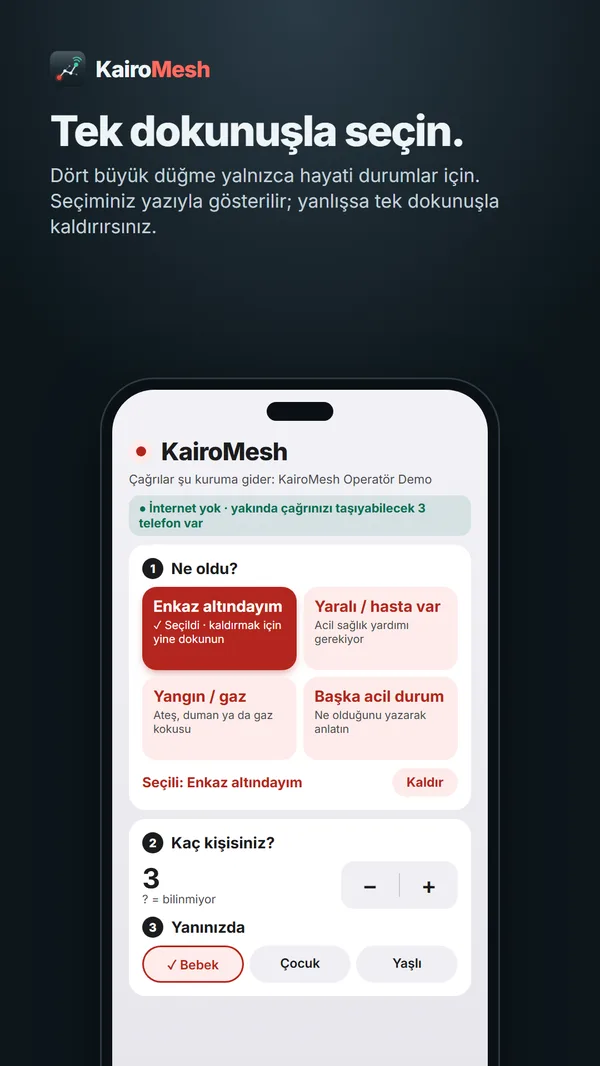
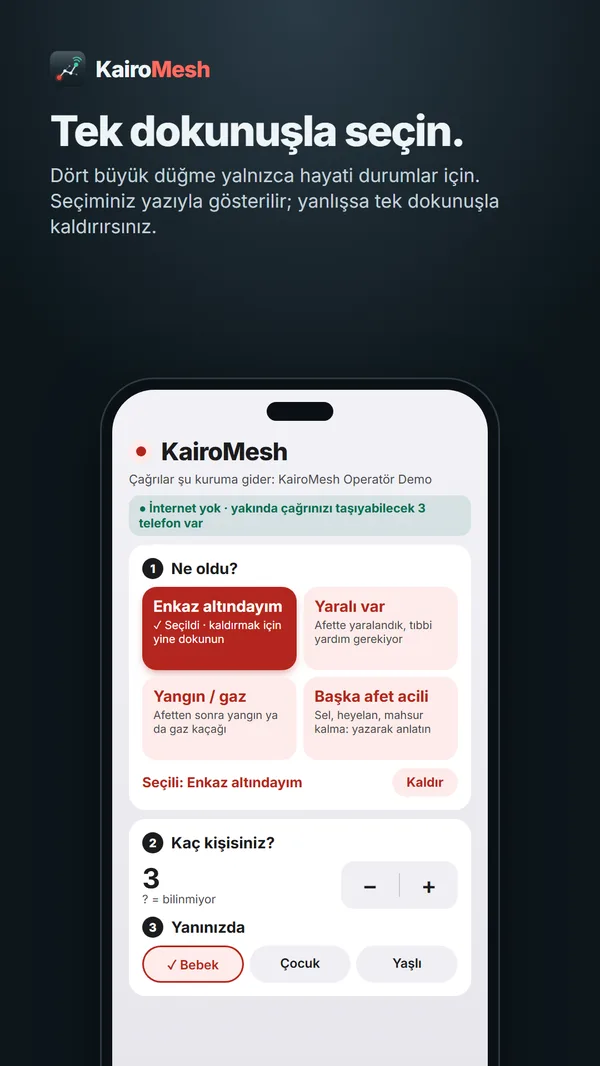
0.6.2: natural disasters only
KairoMesh is for natural disasters that take the network down (earthquake, flood, landslide),
not for everyday emergencies, which stay with 112.

- Apps (Android, iOS): the screen is now "Afet yardım çağrısı" and says at the top to call 112
  while the network works. Situation buttons rewritten for disasters: Yaralı var, Yangın / gaz
  after a disaster, Başka afet acili (flood, landslide, trapped). Water/food and shelter are no
  longer call types; a message the model reads as such goes out as another disaster emergency.
  Version 0.6.2 (10).
- Authority server: labels follow the apps.
- Site: hero scope note, authority wording without 112, app previews redrawn, 0.6.2 changelog.
- README: scope line; the live-demo badge now points to the site's simulation page (the old
  root page was removed). docs/05, 07, 08 follow the new scope.

Changed region(s): [[0.51, 0.6501, 0.75, 0.712], [0.54, 0.5572, 0.72, 0.6191], [0.27, 0.6501, 0.45, 0.712]]

diff --git a/site/sayfalar/index.html b/site/sayfalar/index.html
@@ -1,9 +1,10 @@
 <section class="acilis" data-tema="koyu" data-sahne="gorunum">
   <canvas data-ag aria-hidden="true"></canvas>
   <div class="sar acilis-ic">
-    <span class="etiket acil">Afet haberleşmesi · Yerli geliştirme</span>
+    <span class="etiket acil">Doğal afet haberleşmesi · Yerli geliştirme</span>
     <h1>Şebeke çöktüğünde de yardım çağrısı kuruma ulaşır.</h1>
-    <p class="lede">KairoMesh'te cep telefonları internet ve baz istasyonu olmadan, Bluetooth ile birbirinin şifreli mesajını taşır. Enkaz altından yazılan çağrı çevredeki telefonlardan geçer; internete ulaşan ilk telefon onu arka planda kurumun sunucusuna iletir. Kurum 112, AFAD ya da bir belediye olabilir; bugün çalışan referans kurum sunucusudur, gerçek kurum entegrasyonu pilotun konusudur.</p>
+    <p class="lede">KairoMesh'te cep telefonları internet ve baz istasyonu olmadan, Bluetooth ile birbirinin şifreli mesajını taşır. Enkaz altından yazılan çağrı çevredeki telefonlardan geçer; internete ulaşan ilk telefon onu arka planda afet biriminin sunucusuna iletir. Kurum il afet birimi, AFAD ya da bir belediye olabilir; bugün çalışan referans kurum sunucusudur, gerçek kurum entegrasyonu pilotun konusudur.</p>
+    <p class="kapsam"><strong>Yalnız doğal afetler için.</strong> Deprem, sel, heyelan gibi şebekenin gerçekten çöktüğü durumlarda devreye girer. Günlük acil durumlarda, şebeke varken 112'yi arayın.</p>
     <div class="dugmeler">
       <a class="dugme birincil" href="#yolculuk">Bir çağrının yolculuğu</a>
       <a class="dugme hayalet" href="kurumlar.html">Kurumlar için</a>
@@ -55,7 +56,7 @@
           <g class="y-tel"><rect x="418" y="150" width="24" height="40" rx="5"/></g>
           <g class="y-tel internet"><rect x="507" y="118" width="26" height="44" rx="5"/><path d="M510 108 q10 -9 20 0 M514 113 q6 -5 12 0" fill="none"/></g>
           <path class="y-kurum-hat" d="M528 108 L578 66" fill="none"/>
-          <g class="y-kurum"><rect x="560" y="24" width="64" height="42" rx="6"/><text x="592" y="51" text-anchor="middle">112</text></g>
+          <g class="y-kurum"><rect x="560" y="24" width="64" height="42" rx="6"/><text x="592" y="51" text-anchor="middle">Kurum</text></g>
           <g class="y-balon"><rect x="16" y="150" width="210" height="34" rx="10"/><path d="M60 184 l10 12 l6 -12"/><text x="28" y="172">enkazdayız 3 kş bebek var acill</text></g>
           <g class="y-kayit"><rect x="16" y="200" width="104" height="22" rx="11"/><text x="28" y="215">tür: enkaz · 1</text></g>
           <g class="y-kayit"><rect x="16" y="228" width="76" height="22" rx="11"/><text x="28" y="243">kişi: 3</text></g>
@@ -157,7 +158,7 @@
     <div>
       <span class="etiket">Kurumlar için</span>
       <h2>Pilot ortağı arıyoruz.</h2>
-      <p>Afet ve acil durum birimleri, belediyeler, arama-kurtarma kuruluşları ve operatörlerle saha tatbikatı yapmak istiyoruz. Sistem kurumun kendi anahtarı ve sunucusuyla çalışır; veri kurumda kalır.</p>
+      <p>Afet birimleri, belediyeler, arama-kurtarma kuruluşları ve operatörlerle saha tatbikatı yapmak istiyoruz. Sistem kurumun kendi anahtarı ve sunucusuyla çalışır; veri kurumda kalır.</p>
       <div class="dugmeler"><a class="dugme birincil" href="kurumlar.html">Lisans ve pilot</a><a class="dugme hayalet" href="https://github.com/kairodynedynamics/kairo-mesh">Kaynak kod</a></div>
     </div>
     <div class="kart">

diff --git a/ios/App/Sources/Kurum.swift b/ios/App/Sources/Kurum.swift
@@ -59,20 +59,19 @@ struct Kurum {
 /// The emergency screen's choices, as the JSON record the authority receives. Same table and rule as Android
 /// (Kurum.kt `Cagri`) and the triage model.
 enum Cagri {
-    // Life-threatening situations first: the four large buttons (docs/08-acil-ekran.md). The rest are needs.
-    static let turler: [(String, String)] = [("enkaz", "Enkaz altındayım"), ("saglik", "Yaralı / hasta var"), ("yangin", "Yangın / gaz"),
-                                             ("yardim", "Başka acil durum"),
-                                             ("barinma", "Açıkta kaldık"), ("gida_su", "Su / yiyecek yok"),
+    // Natural disasters only, not everyday emergencies (those go to 112): the four large buttons are the
+    // life-threatening disaster situations (docs/08-acil-ekran.md). Needs such as water or shelter are not calls.
+    static let turler: [(String, String)] = [("enkaz", "Enkaz altındayım"), ("saglik", "Yaralı var"), ("yangin", "Yangın / gaz"),
+                                             ("yardim", "Başka afet acili"),
                                              ("kayip", "Yakınımı arıyorum"), ("guvende", "Güvendeyim")]
     static let hayati = ["enkaz", "saglik", "yangin", "yardim"]
-    static let ihtiyac = ["barinma", "gida_su", "kayip"]
-    static let altYazi = ["enkaz": "Bina çöktü, çıkamıyorum", "saglik": "Acil sağlık yardımı gerekiyor",
-                          "yangin": "Ateş, duman ya da gaz kokusu", "yardim": "Ne olduğunu yazarak anlatın"]
+    static let altYazi = ["enkaz": "Bina çöktü, çıkamıyorum", "saglik": "Afette yaralandık, tıbbi yardım gerekiyor",
+                          "yangin": "Afetten sonra yangın ya da gaz kaçağı", "yardim": "Sel, heyelan, mahsur kalma: yazarak anlatın"]
     static func ad(_ tur: String) -> String { turler.first { $0.0 == tur }?.1 ?? tur }
     static func ozelAd(_ k: String) -> String { ozel.first { $0.0 == k }?.1 ?? k }
     static let ozel: [(String, String)] = [("bebek", "Bebek"), ("cocuk", "Çocuk"), ("yasli", "Yaşlı"), ("yarali", "Yaralı"),
                                            ("hamile", "Hamile"), ("engelli", "Engelli")]
-    private static let temel = ["enkaz": 1, "yangin": 1, "saglik": 2, "yardim": 2, "kayip": 2, "barinma": 3, "gida_su": 3, "guvende": 4]
+    private static let temel = ["enkaz": 1, "yangin": 1, "saglik": 2, "yardim": 2, "kayip": 2, "guvende": 4]
 
     static func aciliyet(_ tur: String, _ secili: Set<String>) -> Int {
         let a = temel[tur] ?? 4

diff --git a/android/app/src/main/java/com/kairodyne/mesh/Kurum.kt b/android/app/src/main/java/com/kairodyne/mesh/Kurum.kt
@@ -58,22 +58,23 @@ class Kurum(val pub: ByteArray, val signPub: ByteArray, val url: String, val ad:
 object Cagri {
     // Same table and rule as triyaj/uret.py and the on-device model: base urgency per type,
     // one level more urgent when a baby, an injured person or a pregnant woman is present.
-    // Life-threatening situations first: these are the four large buttons (docs/08-acil-ekran.md). The rest are
-    // needs, not emergencies: smaller buttons below. "yardim" is "another emergency", told in the text.
+    // KairoMesh is for natural disasters that take the network down, not everyday emergencies (those go to 112).
+    // The four large buttons are the life-threatening disaster situations (docs/08-acil-ekran.md); "yardim" is
+    // another disaster emergency, told in the text. Needs such as water or shelter are not calls this app sends.
     val TURLER = linkedMapOf(
-        "enkaz" to "Enkaz altındayım", "saglik" to "Yaralı / hasta var", "yangin" to "Yangın / gaz",
-        "yardim" to "Başka acil durum",
-        "barinma" to "Açıkta kaldık", "gida_su" to "Su / yiyecek yok", "kayip" to "Yakınımı arıyorum",
+        "enkaz" to "Enkaz altındayım", "saglik" to "Yaralı var", "yangin" to "Yangın / gaz",
+        "yardim" to "Başka afet acili",
+        "kayip" to "Yakınımı arıyorum",
         "guvende" to "Güvendeyim",
     )
     val HAYATI = listOf("enkaz", "saglik", "yangin", "yardim")
-    val ALT_YAZI = mapOf("enkaz" to "Bina çöktü, çıkamıyorum", "saglik" to "Acil sağlık yardımı gerekiyor",
-        "yangin" to "Ateş, duman ya da gaz kokusu", "yardim" to "Ne olduğunu yazarak anlatın")
+    val ALT_YAZI = mapOf("enkaz" to "Bina çöktü, çıkamıyorum", "saglik" to "Afette yaralandık, tıbbi yardım gerekiyor",
+        "yangin" to "Afetten sonra yangın ya da gaz kaçağı", "yardim" to "Sel, heyelan, mahsur kalma: yazarak anlatın")
     val OZEL = linkedMapOf(
         "bebek" to "Bebek", "cocuk" to "Çocuk", "yasli" to "Yaşlı", "yarali" to "Yaralı",
         "hamile" to "Hamile", "engelli" to "Engelli",
     )
-    private val TEMEL = mapOf("enkaz" to 1, "yangin" to 1, "saglik" to 2, "yardim" to 2, "kayip" to 2, "barinma" to 3, "gida_su" to 3, "guvende" to 4)
+    private val TEMEL = mapOf("enkaz" to 1, "yangin" to 1, "saglik" to 2, "yardim" to 2, "kayip" to 2, "guvende" to 4)
 
     fun aciliyet(tur: String, ozel: Set<String>): Int {
         val a = TEMEL[tur] ?: 4

diff --git a/site/sayfalar/gizlilik.html b/site/sayfalar/gizlilik.html
@@ -27,7 +27,7 @@
   <div class="sar">
     <h2>Çağrı nereye gider, kim görür?</h2>
     <ul class="liste">
-      <li><strong>Kurum:</strong> Çağrı, uygulamaya gömülü kurum kodundaki kuruma gider; örneğin 112 ya da bir afet birimi. Yalnız o kurum çağrıyı açabilir. Çağrının bundan sonraki işlenmesinden ve saklanmasından o kurum sorumludur (veri sorumlusu). Sözleşme öncesi tanıtım sürümünde kurum, Kairodyne Dynamics'in işlettiği operatör demosudur (kairodynedynamics.com/operator). Buraya gönderilen çağrılar gerçek bir acil servise ulaşmaz.</li>
+      <li><strong>Kurum:</strong> Çağrı, uygulamaya gömülü kurum kodundaki kuruma gider; örneğin bir il afet birimi. Yalnız o kurum çağrıyı açabilir. Çağrının bundan sonraki işlenmesinden ve saklanmasından o kurum sorumludur (veri sorumlusu). Sözleşme öncesi tanıtım sürümünde kurum, Kairodyne Dynamics'in işlettiği operatör demosudur (kairodynedynamics.com/operator). Buraya gönderilen çağrılar gerçek bir acil servise ulaşmaz.</li>
       <li><strong>Taşıyan telefonlar:</strong> İnternet yokken çağrınız, KairoMesh kurulu yakındaki telefonlar üzerinden şifreli olarak taşınır. Bu telefonlar içeriği okuyamaz, kimin gönderdiğini de göremez. Taşıdıkları çağrı en fazla bir gün sonra, ya da kurum aldığında silinir.</li>
       <li><strong>Kairodyne Dynamics:</strong> Kurumun sunucusunu işletmediği sürece çağrılarınızı göremez. Uygulama Kairodyne'a ayrıca hiçbir veri göndermez.</li>
     </ul>
@@ -51,6 +51,6 @@
   <div class="sar">
     <h2>Haklarınız (KVKK madde 11)</h2>
     <p>Çağrınızla ilgili bilgiye erişme, düzeltilmesini ya da silinmesini isteme haklarınızı çağrıyı alan kuruma karşı kullanırsınız; çünkü verinin sorumlusu o kurumdur. Operatör demosuna gönderilen çağrılar için başvurularınızı Kairodyne Dynamics'e iletebilirsiniz. Demodaki çağrılar en çok 30 gün saklanır.</p>
-    <p class="soluk kucuk">Kairodyne Dynamics iletişim adresi: kurumsal e-posta adresi yayına alınınca buraya eklenecektir. Bu metin, uygulamanın 0.6.1 sürümü için yazılmıştır.</p>
+    <p class="soluk kucuk">Kairodyne Dynamics iletişim adresi: kurumsal e-posta adresi yayına alınınca buraya eklenecektir. Bu metin, uygulamanın 0.6.2 sürümü için yazılmıştır.</p>
   </div>
 </section>

diff --git a/site/sayfalar/acil-aktarim.html b/site/sayfalar/acil-aktarim.html
@@ -40,16 +40,16 @@
 
 <section class="bolum">
   <div class="sar">
-    <h2>112 ve AFAD entegrasyonu</h2>
+    <h2>Afet birimleriyle entegrasyon</h2>
     <p>Sistemde "kurum", bir açık anahtar ve bir sunucu adresinden ibarettir. Bu yüzden entegrasyon kodu değiştirmeden yapılır:</p>
     <div class="tablo"><table>
       <thead><tr><th>Aşama</th><th>Anahtar ve sunucu</th></tr></thead>
       <tbody>
         <tr><td>Pilot</td><td>Pilot ortağının (belediye afet birimi, arama-kurtarma derneği) panosu</td></tr>
-        <tr><td>Resmî</td><td>112 Acil Çağrı Merkezi / AFAD kendi anahtarını ve sunucusunu işletir; uygulama o anahtarla dağıtılır</td></tr>
+        <tr><td>Resmî</td><td>AFAD ya da il afet birimi kendi anahtarını ve sunucusunu işletir; uygulama o anahtarla dağıtılır</td></tr>
       </tbody>
     </table></div>
-    <p>Aynı çağrı birden çok kuruma (örneğin 112 ve il afet birimi) ayrı ayrı mühürlenerek gönderilebilir. Kurum, aynı kanalı ters yönde de kullanabilir: kendi anahtarıyla imzalı duyurular (toplanma alanı, su dağıtım noktası, tehlikeli bina) telefonlar arasında yayılır ve telefonlar imzayı doğrulayarak gösterir.</p>
+    <p>Aynı çağrı birden çok kuruma (örneğin il afet birimi ve belediye) ayrı ayrı mühürlenerek gönderilebilir. Kurum, aynı kanalı ters yönde de kullanabilir: kendi anahtarıyla imzalı duyurular (toplanma alanı, su dağıtım noktası, tehlikeli bina) telefonlar arasında yayılır ve telefonlar imzayı doğrulayarak gösterir.</p>
   </div>
 </section>
 

diff --git a/site/sayfalar/kurumlar.html b/site/sayfalar/kurumlar.html
@@ -10,7 +10,7 @@
   <div class="sar">
     <h2>Kimler için</h2>
     <div class="izgara">
-      <div class="kart"><h3>Afet ve acil durum birimleri</h3><p>112 Acil Çağrı Merkezleri, AFAD ve il afet birimleri: şebeke çöktüğünde de yardım çağrısı ve konum alır, halka imzalı duyuru gönderir.</p></div>
+      <div class="kart"><h3>Afet birimleri</h3><p>AFAD ve il afet birimleri: doğal afette şebeke çöktüğünde de yardım çağrısı ve konum alır, halka imzalı duyuru gönderir. Günlük acil çağrılar 112'de kalır; KairoMesh onların yerine geçmez.</p></div>
       <div class="kart"><h3>Belediyeler</h3><p>Afet koordinasyon merkezleri ve toplanma alanları: mahalle ölçeğinde ihtiyaç ve barınma bilgisi.</p></div>
       <div class="kart"><h3>Arama-kurtarma kuruluşları</h3><p>Sahadaki ekiplerin kapsama dışında birbirine ve merkeze ulaşması.</p></div>
       <div class="kart"><h3>Mobil operatörler</h3><p>"Şebekemiz çökse de mesajınız çıkar" özelliği; mesajlaşma uygulamasına gömülen motor.</p></div>

diff --git a/android/app/src/main/java/com/kairodyne/mesh/MainActivity.kt b/android/app/src/main/java/com/kairodyne/mesh/MainActivity.kt
@@ -562,8 +562,8 @@ class MainActivity : Activity() {
         agSatiri = yazi("● Ağ hazırlanıyor…", 15f, AMBER, true).apply { setPadding(dp(12), dp(7), dp(12), dp(7)) }
         root.addView(agSatiri, LinearLayout.LayoutParams(WRAP_CONTENT, WRAP_CONTENT).apply { topMargin = dp(10) })
         agRenk(AMBER)
-        root.addView(yazi("Acil yardım çağrısı", 24f, METIN, true).apply { typeface = KALIN; isAccessibilityHeading = true }, yer(22))
-        root.addView(yazi("İnternet olmasa da çalışır. Durumunuzu seçin ya da yazın, sonra gönderin.", 16f, IKINCIL), yer(4))
+        root.addView(yazi("Afet yardım çağrısı", 24f, METIN, true).apply { typeface = KALIN; isAccessibilityHeading = true }, yer(22))
+        root.addView(yazi("Doğal afette şebeke çöktüğünde kullanın; günlük acil durumlarda 112'yi arayın. Durumunuzu seçin ya da yazın, sonra gönderin.", 16f, IKINCIL), yer(4))
 
         // 1. what happened: four life-threatening situations, large
         val ne = kart()

diff --git a/ios/App/Sources/KairoMeshApp.swift b/ios/App/Sources/KairoMeshApp.swift
@@ -35,9 +35,9 @@ struct ContentView: View {
                 VStack(alignment: .leading, spacing: 12) {
                     baslik
                     VStack(alignment: .leading, spacing: 4) {
-                        Text("Acil yardım çağrısı").font(.system(size: 26, weight: .bold)).foregroundColor(Tema.metin)
+                        Text("Afet yardım çağrısı").font(.system(size: 26, weight: .bold)).foregroundColor(Tema.metin)
                             .accessibilityAddTraits(.isHeader)
-                        Text("İnternet olmasa da çalışır. Durumunuzu seçin ya da yazın, sonra gönderin.")
+                        Text("Doğal afette şebeke çöktüğünde kullanın; günlük acil durumlarda 112'yi arayın. Durumunuzu seçin ya da yazın, sonra gönderin.")
                             .font(.callout).foregroundColor(Tema.ikincil)
                     }.padding(.top, 14)
                     neOldu

diff --git a/src/kurum.js b/src/kurum.js
@@ -262,7 +262,7 @@ export function sinyaller(e, butun, dizin = dizinle(butun)) {
 const esc = (s) => String(s ?? '').replace(/[&<>"']/g, (c) => `&#${c.charCodeAt(0)};`);
 
 // Plain Turkish for the dispatcher (the app's own words for each situation and special status)
-const TUR_AD = { enkaz: 'Enkaz altında', saglik: 'Yaralı / hasta', yangin: 'Yangın / gaz', yardim: 'Başka acil durum',
+const TUR_AD = { enkaz: 'Enkaz altında', saglik: 'Yaralı', yangin: 'Yangın / gaz', yardim: 'Başka afet acili',
   guvende: 'Güvende', iptal: 'İptal', kayip: 'Kayıp kişi', barinma: 'Barınma', gida_su: 'Gıda / su', bilgi: 'Bilgi', alakasiz: 'İlgisiz mesaj' };
 const OZEL_AD = { bebek: 'bebek', cocuk: 'çocuk', yasli: 'yaşlı', yarali: 'yaralı', hamile: 'hamile', engelli: 'engelli' };
 const turAd = (t) => TUR_AD[t] ?? t ?? '—';

diff --git a/site/stil.css b/site/stil.css
@@ -329,3 +329,8 @@ html:not(.js) :is(.y-kurum-hat, .y-tamam, .y-kayit), .az-hareket :is(.y-kurum-ha
 
 .marka b.mesh { color: var(--acil); font-weight: 700; }
 .ust.koyu .marka b.mesh { color: #ff6b5e; }
+
+/* the scope line in the hero: natural disasters only, 112 for everyday emergencies */
+.acilis .kapsam { max-width: 60ch; margin-top: 1rem; padding: .85rem 1.1rem; border-radius: 14px;
+  border: 1px solid rgba(255,107,94,.45); background: rgba(255,107,94,.09); color: var(--metin2); font-size: 1rem; line-height: 1.5; }
+.acilis .kapsam strong { color: #ff6b5e; }

diff --git a/site/yap.py b/site/yap.py
@@ -34,11 +34,11 @@ GITHUB_SITE = URUN / "yayin" / "kairodynedynamics.com"  # the published site rep
 # (dosya, menü adı, başlık, açıklama)
 SAYFALAR = [
     ("index", "Ana sayfa", "KairoMesh · Kairodyne Dynamics — şebeke çöktüğünde de yardım çağrısı ulaşır",
-     "KairoMesh, telefonların internet ve baz istasyonu olmadan Bluetooth ile birbirinin şifreli mesajını taşıdığı yerli afet haberleşme sistemidir. Yardım çağrısı, internete ulaşan ilk telefon üzerinden 112 ve afet birimlerine iletilir."),
+     "KairoMesh, telefonların internet ve baz istasyonu olmadan Bluetooth ile birbirinin şifreli mesajını taşıdığı yerli afet haberleşme sistemidir. Doğal afette yardım çağrısı, internete ulaşan ilk telefon üzerinden afet birimlerine iletilir."),
     ("nasil-calisir", "Nasıl çalışır", "Nasıl çalışır — KairoMesh",
      "Taşıyıcı seçimi, çeşme kodlu parçalı aktarım, Noise X şifreleme, taklit edilemez makbuz ve izlenemeyen cihaz kimliği."),
     ("acil-aktarim", "Acil aktarım", "Acil aktarım: şebekesiz telefondan kuruma — KairoMesh",
-     "Yardım çağrısı kurum anahtarına mühürlenir, çevredeki telefonlarca taşınır ve internete ulaşan ilk telefon tarafından arka planda 112 ya da afet birimine iletilir."),
+     "Yardım çağrısı kurum anahtarına mühürlenir, çevredeki telefonlarca taşınır ve internete ulaşan ilk telefon tarafından arka planda afet birimine iletilir."),
     ("dogrulama", "Doğrulama", "Ölçümler ve testler — KairoMesh",
      "Simülasyon yöntemi ve sonuçları, parçalı aktarım ölçümleri, Türkçe yardım mesajı anlamlandırma taban çizgisi, saldırı testleri ve platform testleri."),
     ("kurumlar", "Kurumlar için", "Kurumlar için: lisans ve pilot — KairoMesh",

diff --git a/site/marka/uygulama_gorselleri.py b/site/marka/uygulama_gorselleri.py
@@ -80,8 +80,8 @@ body {{ margin: 0; width: 1080px; height: 1920px; overflow: hidden; font-family:
 
 
 def turlar(secili=None):
-    adlar = [("enkaz", "Enkaz altındayım", "Bina çöktü, çıkamıyorum"), ("saglik", "Yaralı / hasta var", "Acil sağlık yardımı gerekiyor"),
-             ("yangin", "Yangın / gaz", "Ateş, duman ya da gaz kokusu"), ("yardim", "Başka acil durum", "Ne olduğunu yazarak anlatın")]
+    adlar = [("enkaz", "Enkaz altındayım", "Bina çöktü, çıkamıyorum"), ("saglik", "Yaralı var", "Afette yaralandık, tıbbi yardım gerekiyor"),
+             ("yangin", "Yangın / gaz", "Afetten sonra yangın ya da gaz kaçağı"), ("yardim", "Başka afet acili", "Sel, heyelan, mahsur kalma: yazarak anlatın")]
     return '<div class="izgara">' + "".join(
         f'<div class="tur{" secili" if k == secili else ""}"><b>{ad}</b><span>{"✓ Seçildi · kaldırmak için yine dokunun" if k == secili else alt}</span></div>'
         for k, ad, alt in adlar) + "</div>"
@@ -92,7 +92,7 @@ def adim(no, ad):
 
 
 def ekran(icerik, ag="● İnternet yok · yakında çağrınızı taşıyabilecek 3 telefon var", agrenk="yesil", baslik=True):
-    b = ('<div class="baslik">Acil yardım çağrısı<small>İnternet olmasa da çalışır. Durumunuzu seçin ya da yazın, sonra gönderin.</small></div>'
+    b = ('<div class="baslik">Afet yardım çağrısı<small>Doğal afette şebeke çöktüğünde kullanın; günlük acil durumlarda 112’yi arayın. Durumunuzu seçin ya da yazın, sonra gönderin.</small></div>'
          if baslik else "")
     return f"""<div class="kamera"></div><div class="ic">
 <div class="bas"><i></i>KairoMesh</div><div class="kurum">Çağrılar şu kuruma gider: KairoMesh Operatör Demo</div>
